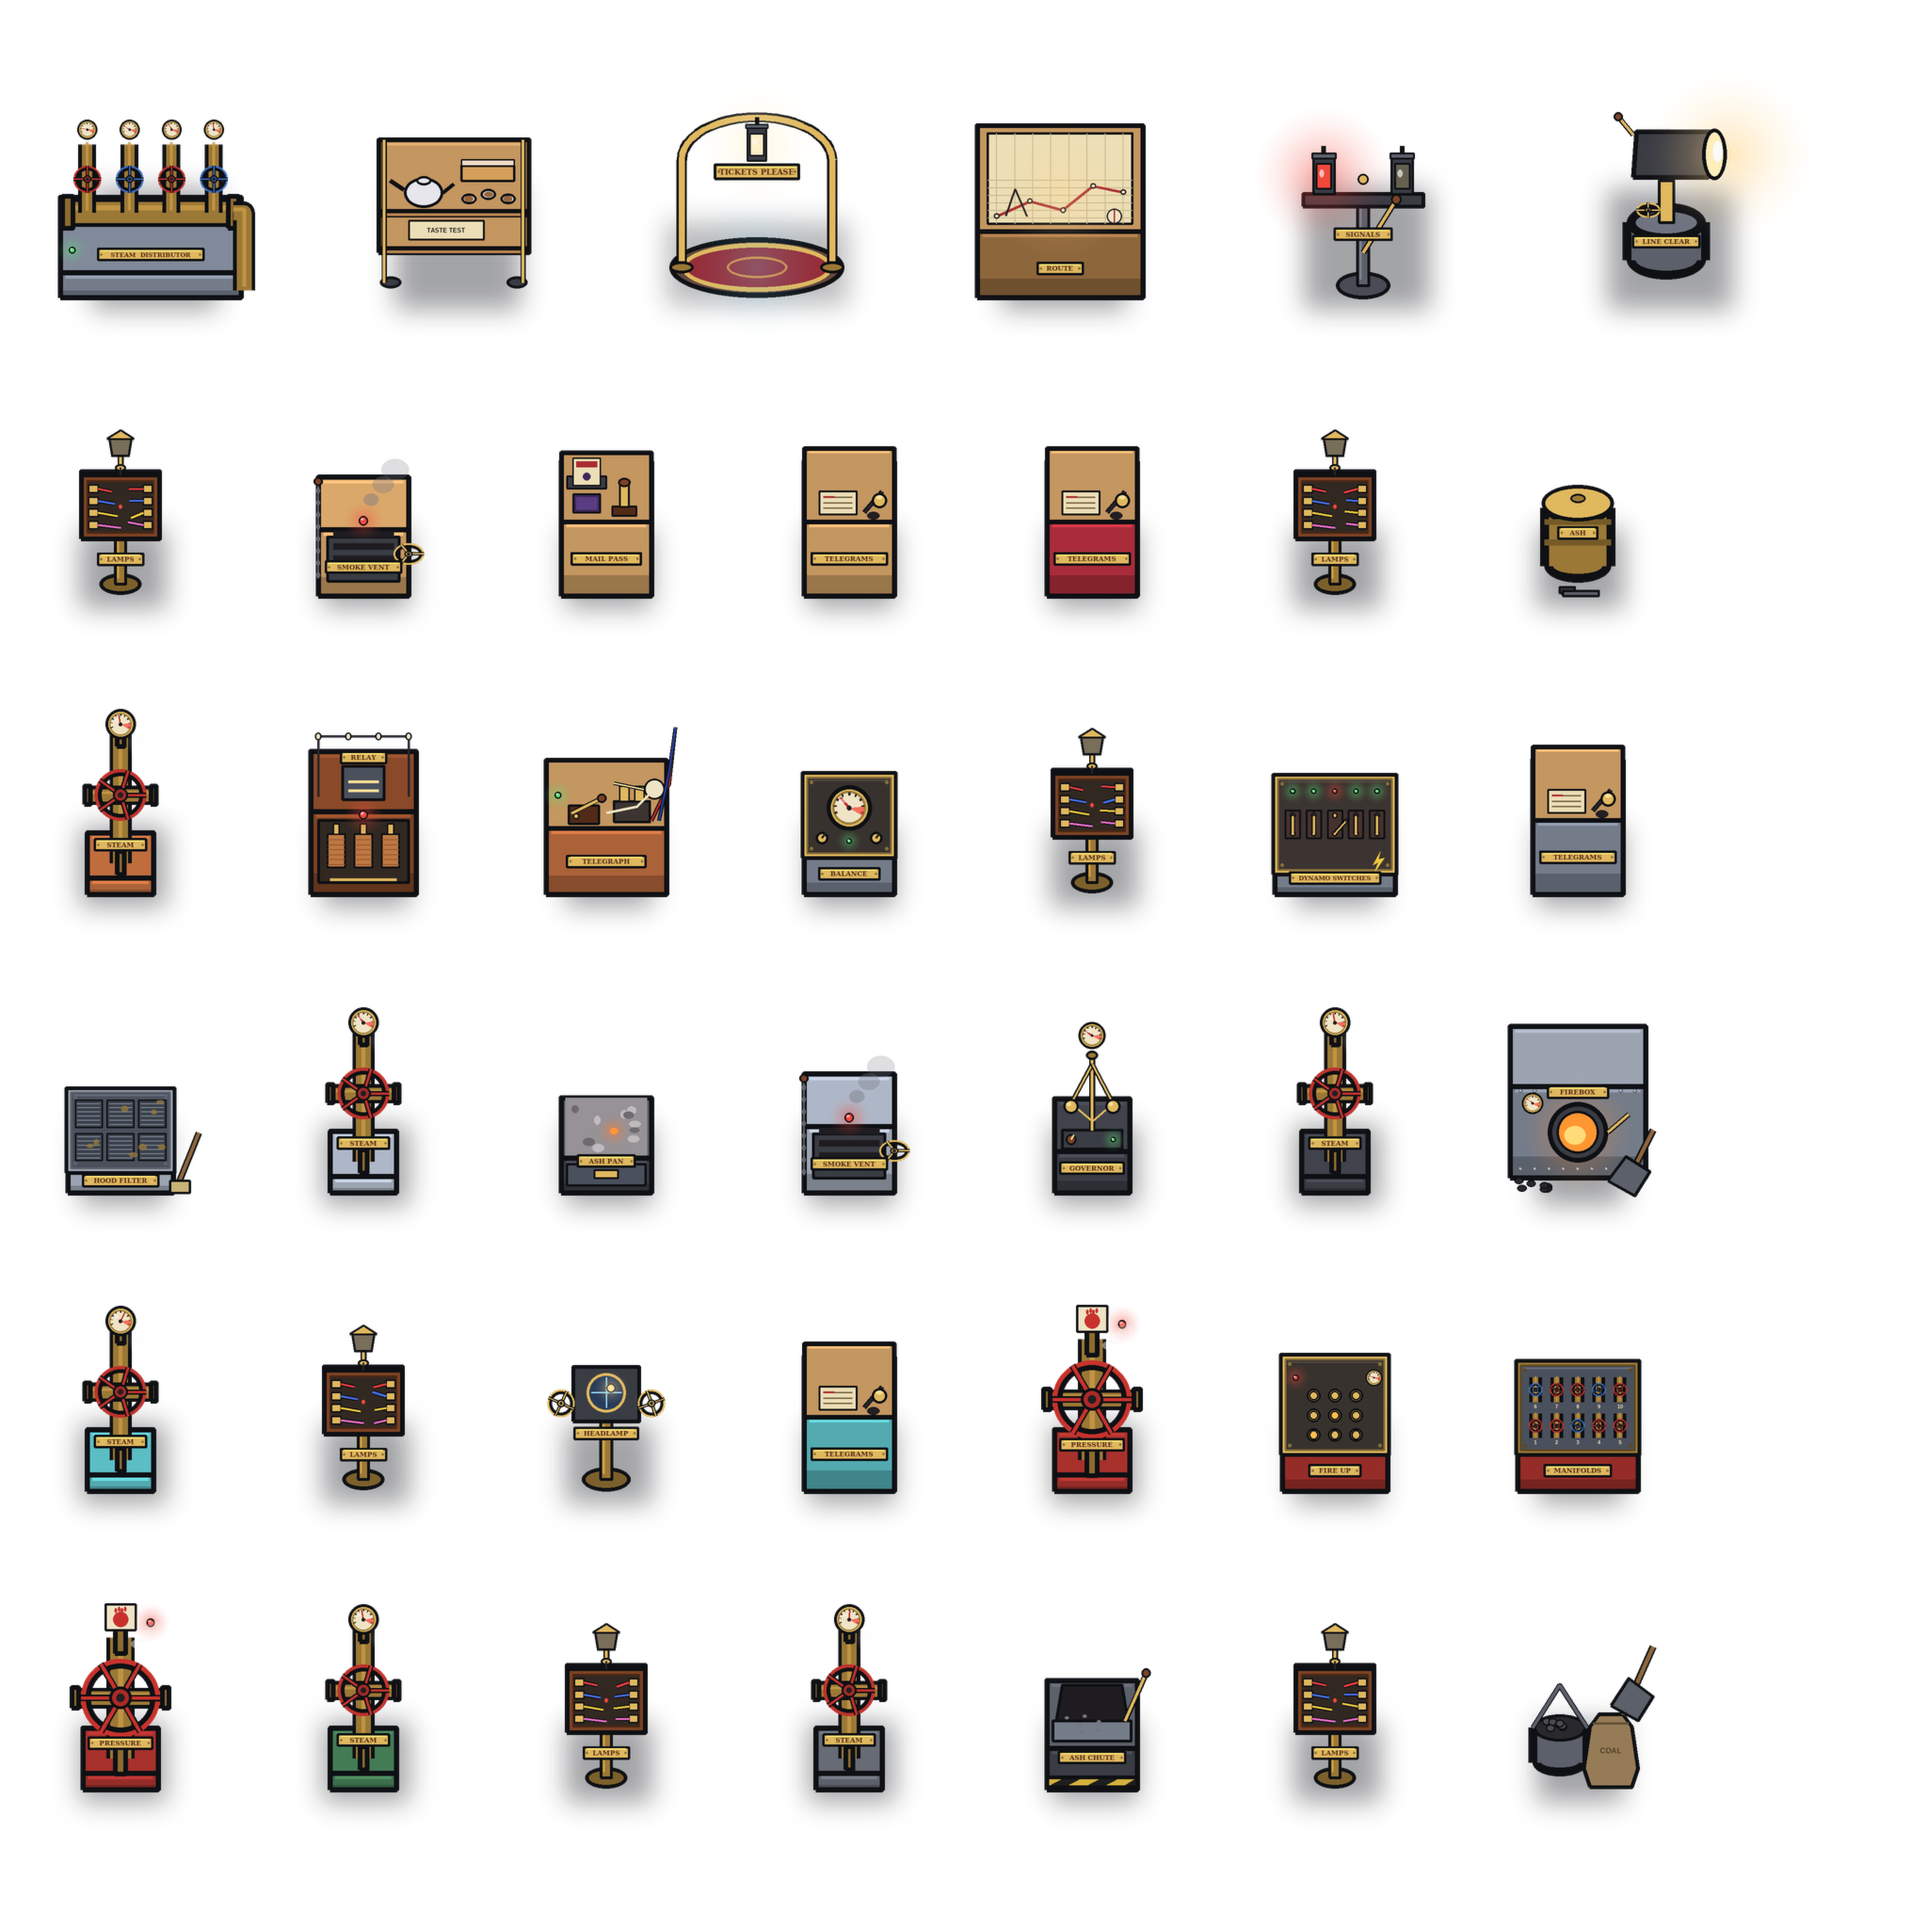
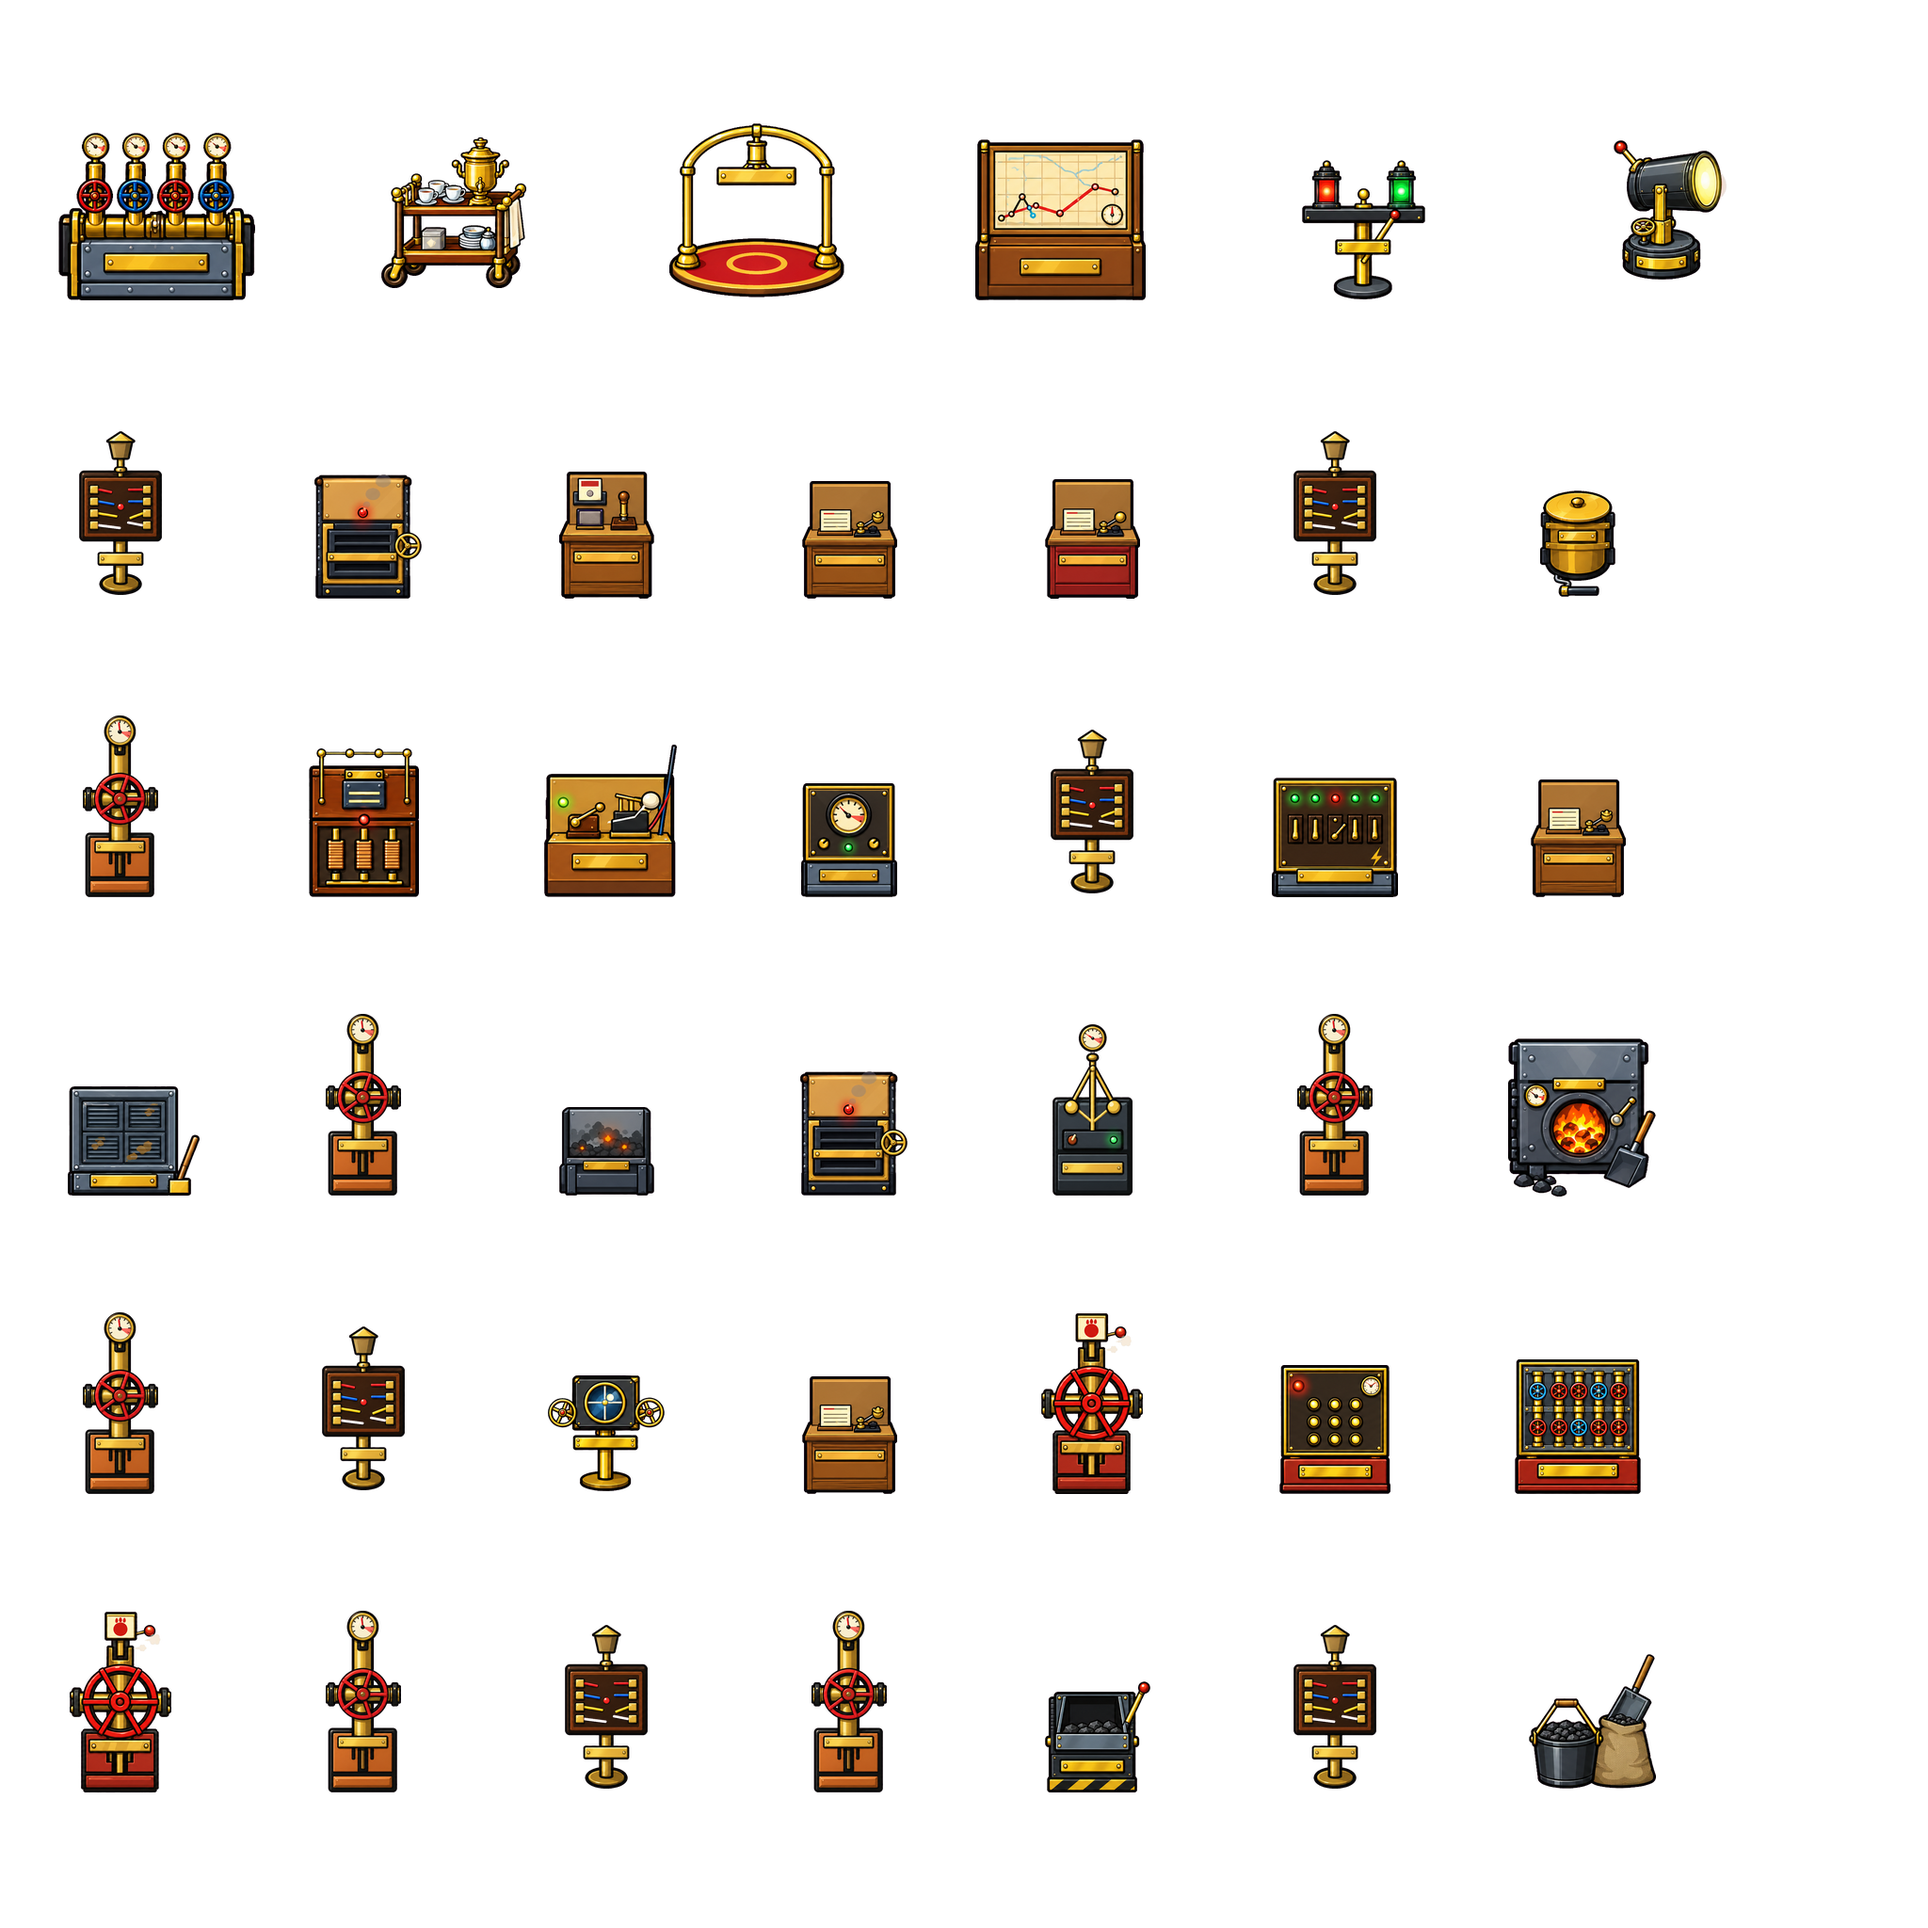
feat: Polaris Express in neuer, detailreicherer Grafik; version 1.0.3.5
Der Polaris Express bekommt fuer alle Einrichtungsgegenstaende und Aufgabenkonsolen neue Bilder.

- Alle 91 Objekt- und Konsolenbilder neu gezeichnet: Lok mit Kessel, Feuerbuechse und Bremsen, Generator und
  Dynamo, Speisewagen mit gedeckten Tischen, Bar und Herd, Schlafwagen, Postwagen mit Sortierfaechern, Salonwagen
  mit Samtsesseln, Treppen und Dachluken. Form, Lage, Groesse und Kollision bleiben exakt wie bisher.
- Die Bilder kommen wie gewohnt aus dem Asset-Repo (Assets v8); die DLL aendert sich nur im Katalog.

Bekannte Testpunkte
- Hervorhebung der Konsolen beim Benutzen (Umriss) mit den neuen Bildern.

diff --git a/src/AtlasAssetCatalog.g.cs b/src/AtlasAssetCatalog.g.cs
@@ -9,7 +9,7 @@ namespace UnknownsAtlas;
 
 internal static class AtlasAssetCatalog
 {
-    public const string Tag = "v7";
+    public const string Tag = "v8";
 
     public static readonly (string Name, string Res, long Size, string Sha256)[] Files =
     {
@@ -410,8 +410,8 @@ internal static class AtlasAssetCatalog
[10 lines of base64/hex data omitted]
@@ -424,8 +424,8 @@ internal static class AtlasAssetCatalog
[10 lines of base64/hex data omitted]

diff --git a/src/AtlasPlugin.cs b/src/AtlasPlugin.cs
@@ -26,7 +26,7 @@ public class AtlasPlugin : BasePlugin
 {
     public const string Id = "com.daunknown0.atlas";
     public const string PluginName = "Unknown's Atlas";
-    public const string VersionString = "1.0.3.4";
+    public const string VersionString = "1.0.3.5";
     public static readonly System.Version Version = System.Version.Parse(VersionString);
 
     public static BepInEx.Logging.ManualLogSource Logger = null!;
